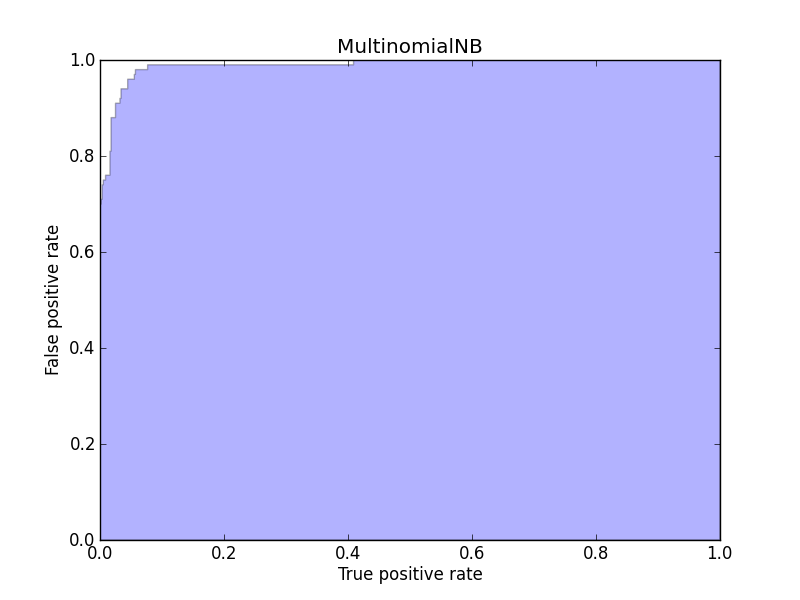
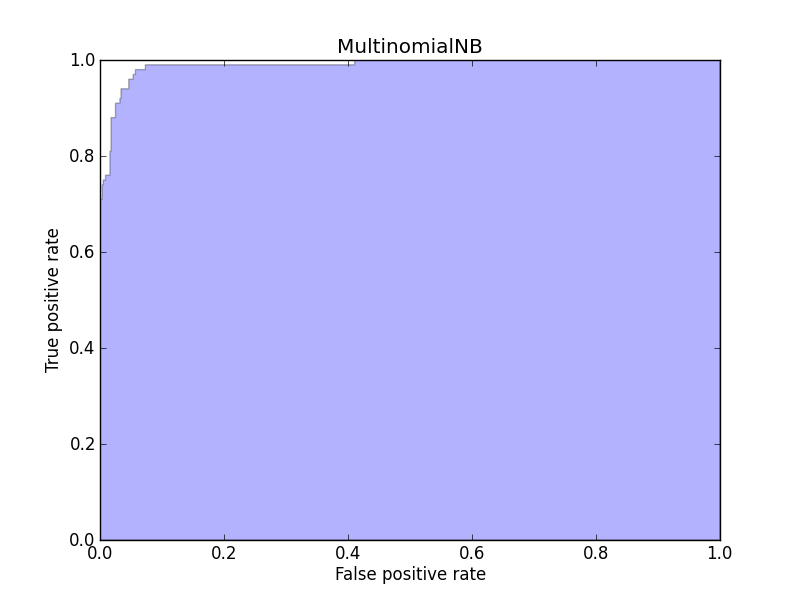
fixed roc curve bug, extended doc

Changed region(s): [[0.4062, 0.93, 0.5938, 0.99], [0.0312, 0.39, 0.0938, 0.63]]

diff --git a/classifier.py b/classifier.py
@@ -41,7 +41,7 @@ class ROCScorer(object):
     def __call__(self, estimator, X, y):
         params = self._get_estimator_params(estimator)
         proba = estimator.predict_proba(X)[:, 1]
-        tpr, fpr, thresholds = roc_curve(y, proba)
+        fpr, tpr, thresholds = roc_curve(y, proba)
         thresholds.sort()
         i_tpr = np.interp(self.interp_thresholds, thresholds, tpr)
         i_fpr = np.interp(self.interp_thresholds, thresholds, fpr)
@@ -126,15 +126,15 @@ def roc_model_score(model, train_data, train_labels,
     estimator_name = model.classifier.__class__.__name__
     print "Estimator: %s" % estimator_name
     proba = model.spam_filter.predict_proba(test_data)[:, 1]
-    tpr, fpr, thresholds = roc_curve(test_labels, proba)
+    fpr, tpr, thresholds = roc_curve(test_labels, proba)
     auc = roc_auc_score(test_labels, proba)
     print "Accuracy: %.4f" % model.accuracy(test_data, test_labels)
     print "AUC: %.4f" % auc
 
-    plt.fill_between(tpr, fpr, alpha=0.3)
+    plt.fill_between(fpr, tpr, alpha=0.3)
     plt.title(estimator_name)
-    plt.xlabel('True positive rate')
-    plt.ylabel('False positive rate')
+    plt.xlabel('False positive rate')
+    plt.ylabel('True positive rate')
     plt.savefig('doc/charts/ROC_%s.png' % estimator_name)
     plt.show()
     return estimator_name, tpr, fpr
@@ -161,11 +161,11 @@ def roc_model_score_all():
         plot_data.append(ret)
 
     for (estimator_name, tpr, fpr), color in zip(plot_data, colors):
-        plt.plot(tpr, fpr, lw=2, color=color, label=estimator_name)
-        plt.fill_between(tpr, fpr, alpha=0.1)
+        plt.plot(fpr, tpr, lw=2, color=color, label=estimator_name)
+        plt.fill_between(fpr, tpr, alpha=0.1)
     plt.legend(loc='best')
-    plt.xlabel('True positive rate')
-    plt.ylabel('False positive rate')
+    plt.xlabel('False positive rate')
+    plt.ylabel('True positive rate')
     plt.savefig('doc/charts/ROC_ALL.png')
     plt.show()
 

diff --git a/doc/praca.rst b/doc/praca.rst
@@ -129,6 +129,43 @@ Jest to prosty skrypt który pozwala programowi pocztowemu
 Przetwarzanie wiadomości
 ========================
 
+Korpus wiadomości
+-----------------
+
+.. note::
+   Informacje na temat korpusu SpamAssasin z którego korzystam
+
+.. admonition:: TODO
+
+   * Szczegółowe informacje na temat kategorii w korpusie
+
+.. table:: Liczba wiadomości w korpusie
+
+    ============= =================
+    Kategoria     Liczba wiadomości
+    ============= =================
+    Easy Ham      2551
+    Hard Ham      250
+    Spam          500
+    **Suma**      **3301**
+    ============= =================
+
+Podział korpusu na treningowy i testowy
+---------------------------------------
+
+W celu uzyskania miarodajnych wyników podczas testowania algorytmów
+uczenia maszynowego wszystkie pomiary wydajności należy wykonywać
+na innym zestawie danych niż te użyte do treningu. W tym celu korpus
+wiadomości został podzielony na zestaw treningowy i zestaw testowy
+według poniższych reguł:
+
+* dla każdej kategorii zostało wybranych 20% wiadomości i umieszczono
+  je w korpusie testowym
+* pozostałe 80% wiadomości znalazło się w korpusie treningowym
+
+Podział ten został dokonany tylko raz i jest niezmienny we
+wszystkich pomiarach w dalszej części pracy.
+
 Budowa wiadomości e-mail
 ------------------------
 
@@ -437,7 +474,8 @@ ten model zawiera się w przedziale :math:`0 \leq p \leq 1`.
 Krzywa ROC dla regresji logistycznej o domyślnych parametrach:
 
 .. figure:: charts/ROC_LogisticRegression.png
-   :width: 100%
+   :width: 70%
+   :align: center
 
    Krzywa ROC
 
@@ -449,7 +487,8 @@ Naiwny klasyfikator bayesowski
 ------------------------------
 
 .. figure:: charts/ROC_MultinomialNB.png
-   :width: 100%
+   :width: 70%
+   :align: center
 
    Krzywa ROC
 
@@ -457,7 +496,8 @@ Maszyna wsparcia wektorowego
 ----------------------------
 
 .. figure:: charts/ROC_SVC.png
-   :width: 100%
+   :width: 70%
+   :align: center
 
    Krzywa ROC
 
@@ -465,7 +505,8 @@ Las drzew losowych
 ------------------
 
 .. figure:: charts/ROC_RandomForestClassifier.png
-   :width: 100%
+   :width: 70%
+   :align: center
 
    Krzywa ROC
 
@@ -485,7 +526,8 @@ Porównanie efektywności klasyfikatorów
 Przykład:
 
 .. figure:: charts/ROC_ALL.png
-   :width: 100%
+   :width: 70%
+   :align: center
 
    Krzywa ROC
 
